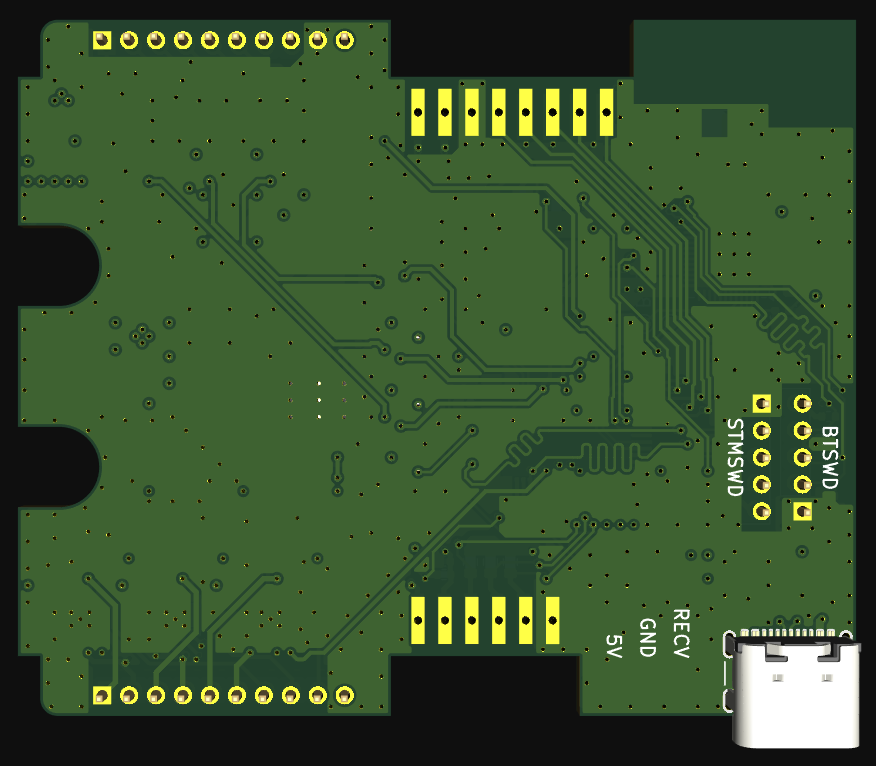
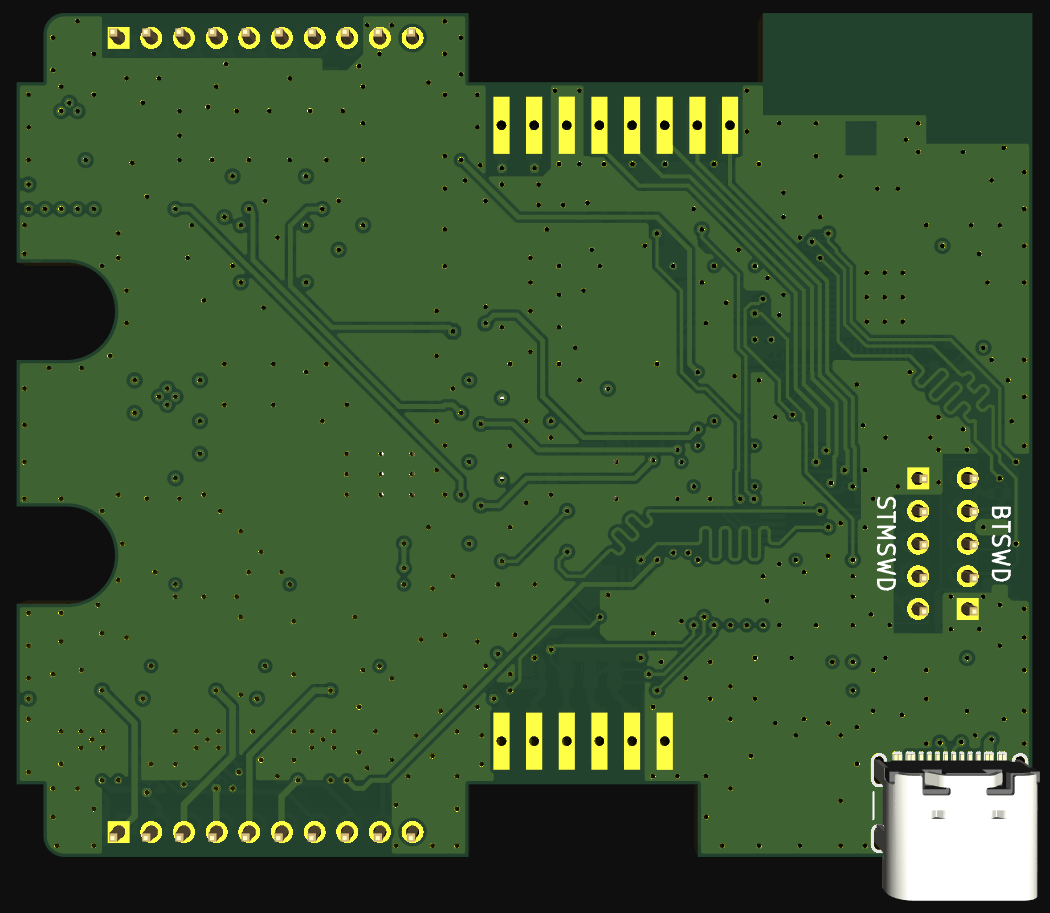
Added motor controller pictures and updated motor controller page

diff --git a/index.html b/index.html
@@ -54,7 +54,7 @@
 
     <div class="card-container">
         <a href="projects/vesc.html" class="project-card">
-            <img src="docs/assets/Gameboy Color Cartridge 3D Corner.png" alt="VESC Project Thumbnail">
+            <img src="docs/assets/VESC 3D Corner.png" alt="VESC Project Thumbnail">
             <div class="project-title">Custom VESC Project</div>
             <div align="left" style="margin-left:30px; margin-right:30px">
                 <p>
@@ -64,7 +64,7 @@
             </div>
             <div>
                 <p style="color:green">
-                    <svg id="active" height="16" viewBox="0 0 16 16" width="16" class="octicon octicon-check-circle-fill">
+                    <svg id="active" height="16" viewBox="0 0 16 16" width="16" class="checkmark checkmark-check-circle-fill">
                         <path d="M8 16A8 8 0 1 1 8 0a8 8 0 0 1 0 16Zm3.78-9.72a.751.751 0 0 0-.018-1.042.751.751 0 0 0-1.042-.018L6.75 9.19 5.28 7.72a.751.751 0 0 0-1.042.018.751.751 0 0 0-.018 1.042l2 2a.75.75 0 0 0 1.06 0Z"></path>
                     </svg>
                     Active
@@ -73,7 +73,7 @@
         </a>
 
         <a href="projects/motor_controller.html" class="project-card">
-            <img src="docs/assets/Gameboy Color Cartridge 2D Back Layout.png" alt="Motor Controller Thumbnail">
+            <img src="docs/assets/Motor Controller 3D Corner.png" alt="Motor Controller Thumbnail">
             <div class="project-title">Motor Controller Project</div>
             <div align="left" style="margin-left:30px; margin-right:30px">
                 <p>
@@ -83,7 +83,7 @@
             </div>
             <div>
                 <p style="color:green">
-                    <svg id="active" class="octicon octicon-check-circle-fill" height="16" viewBox="0 0 16 16" width="16">
+                    <svg id="active" class="checkmark checkmark-check-circle-fill" height="16" viewBox="0 0 16 16" width="16">
                         <path d="M8 16A8 8 0 1 1 8 0a8 8 0 0 1 0 16Zm3.78-9.72a.751.751 0 0 0-.018-1.042.751.751 0 0 0-1.042-.018L6.75 9.19 5.28 7.72a.751.751 0 0 0-1.042.018.751.751 0 0 0-.018 1.042l2 2a.75.75 0 0 0 1.06 0Z"></path>
                     </svg>
                     Active
@@ -102,7 +102,7 @@
             </div>
             <div>
                 <p style="color:#545454">
-                    <svg id="finished" class="octicon octicon-check-circle" height="16" viewBox="0 0 16 16" width="16" fill="currentColor" display="inline-block">
+                    <svg id="finished" class="checkmark checkmark-check-circle" height="16" viewBox="0 0 16 16" width="16" fill="currentColor" display="inline-block">
                         <path d="M0 8a8 8 0 1 1 16 0A8 8 0 0 1 0 8Zm1.5 0a6.5 6.5 0 1 0 13 0 6.5 6.5 0 0 0-13 0Zm10.28-1.72-4.5 4.5a.75.75 0 0 1-1.06 0l-2-2a.751.751 0 0 1 .018-1.042.751.751 0 0 1 1.042-.018l1.47 1.47 3.97-3.97a.751.751 0 0 1 1.042.018.751.751 0 0 1 .018 1.042Z"></path>
                     </svg>
                     Finished
@@ -124,7 +124,7 @@
             </div>
             <div>
                 <p style="color:#545454">
-                    <svg id="finished" class="octicon octicon-check-circle" height="16" viewBox="0 0 16 16" width="16" fill="currentColor" display="inline-block">
+                    <svg id="finished" class="checkmark checkmark-check-circle" height="16" viewBox="0 0 16 16" width="16" fill="currentColor" display="inline-block">
                         <path d="M0 8a8 8 0 1 1 16 0A8 8 0 0 1 0 8Zm1.5 0a6.5 6.5 0 1 0 13 0 6.5 6.5 0 0 0-13 0Zm10.28-1.72-4.5 4.5a.75.75 0 0 1-1.06 0l-2-2a.751.751 0 0 1 .018-1.042.751.751 0 0 1 1.042-.018l1.47 1.47 3.97-3.97a.751.751 0 0 1 1.042.018.751.751 0 0 1 .018 1.042Z"></path>
                     </svg>
                     Finished
@@ -142,7 +142,7 @@
             </div>
             <div>
                 <p style="color:#545454">
-                    <svg id="finished" class="octicon octicon-check-circle" height="16" viewBox="0 0 16 16" width="16" fill="currentColor" display="inline-block">
+                    <svg id="finished" class="checkmark checkmark-check-circle" height="16" viewBox="0 0 16 16" width="16" fill="currentColor" display="inline-block">
                         <path d="M0 8a8 8 0 1 1 16 0A8 8 0 0 1 0 8Zm1.5 0a6.5 6.5 0 1 0 13 0 6.5 6.5 0 0 0-13 0Zm10.28-1.72-4.5 4.5a.75.75 0 0 1-1.06 0l-2-2a.751.751 0 0 1 .018-1.042.751.751 0 0 1 1.042-.018l1.47 1.47 3.97-3.97a.751.751 0 0 1 1.042.018.751.751 0 0 1 .018 1.042Z"></path>
                     </svg>
                     Finished
@@ -160,7 +160,7 @@
             </div>
             <div>
                 <p style="color:green">
-                    <svg id="active" height="16" viewBox="0 0 16 16" width="16" class="octicon octicon-check-circle-fill">
+                    <svg id="active" height="16" viewBox="0 0 16 16" width="16" class="checkmark checkmark-check-circle-fill">
                         <path d="M8 16A8 8 0 1 1 8 0a8 8 0 0 1 0 16Zm3.78-9.72a.751.751 0 0 0-.018-1.042.751.751 0 0 0-1.042-.018L6.75 9.19 5.28 7.72a.751.751 0 0 0-1.042.018.751.751 0 0 0-.018 1.042l2 2a.75.75 0 0 0 1.06 0Z"></path>
                     </svg>
                     Active

diff --git a/projects/motor_controller.html b/projects/motor_controller.html
@@ -31,19 +31,28 @@
             <div class="splide__track">
                 <ul class="splide__list">
                     <li class="splide__slide">
-                        <img src="https://elijahhaga.github.io/docs/assets/LED Ring Corner 3D.png" height="338" width="473" alt="LED Ring 3D Corner" align="middle"/>
+                        <img src="https://elijahhaga.github.io/docs/assets/Motor Controller 3D Corner.png" height="338" width="473" alt="LED Ring 3D Corner" align="middle"/>
                     </li>
                     <li class="splide__slide">
-                        <img src="https://elijahhaga.github.io/docs/assets/LED Ring Front 3D.png" height="461" width="461" alt="LED Ring Front 3D Layout" align="middle"/>
+                        <img src="https://elijahhaga.github.io/docs/assets/Motor Controller 3D Front.png" height="461" width="461" alt="LED Ring Front 3D Layout" align="middle"/>
                     </li>
                     <li class="splide__slide">
-                        <img src="https://elijahhaga.github.io/docs/assets/LED Ring Back 3D.png" height="458" width="458" alt="LED Ring Back 3D Layout" align="middle"/>
+                        <img src="https://elijahhaga.github.io/docs/assets/Motor Controller 3D Back.png" height="458" width="458" alt="LED Ring Back 3D Layout" align="middle"/>
                     </li>
                     <li class="splide__slide">
-                        <img src="https://elijahhaga.github.io/docs/assets/LED Ring Front 2D.png" height="443" width="450" alt="LED Ring Front 2D Layout" align="middle"/>
+                        <img src="https://elijahhaga.github.io/docs/assets/Motor Controller 2D Layout Front.png" height="443" width="450" alt="LED Ring Front 2D Layout" align="middle"/>
                     </li>
                     <li class="splide__slide">
-                        <img src="https://elijahhaga.github.io/docs/assets/LED Ring PCB Schematic.png" height="609" width="699" alt="LED Ring Schematic" align="middle"/>
+                        <img src="https://elijahhaga.github.io/docs/assets/Motor Controller 2D Layout Back.png" height="609" width="699" alt="LED Ring Schematic" align="middle"/>
+                    </li>
+                    <li class="splide__slide">
+                        <img src="https://elijahhaga.github.io/docs/assets/Motor Controller Hierarchical Schematic.png" height="609" width="699" alt="LED Ring Schematic" align="middle"/>
+                    </li>
+                    <li class="splide__slide">
+                        <img src="https://elijahhaga.github.io/docs/assets/Motor Controller STM32 Schematic.png" height="609" width="699" alt="LED Ring Schematic" align="middle"/>
+                    </li>
+                    <li class="splide__slide">
+                        <img src="https://elijahhaga.github.io/docs/assets/Motor Controller DRV8323 Schematic.png" height="609" width="699" alt="LED Ring Schematic" align="middle"/>
                     </li>
                 </ul>
             </div>
@@ -57,9 +66,9 @@
                 designing the electronics system for the autonomous robot shuttles the company needed, and one of circuit boards 
                 I designed for this project was a motor controller board. It can handle 30 Amps at 60 Volts, and is capable of using 
                 either the built-in magnetic rotary encoder or an external encoder that uses SPI or I2C. It can communicate over CAN 
-                using CAN-FD. I designed the board to be able to use some pre-made open-source firmware, but I had to make some major 
-                changes to the firmware to allow for faster CAN communication and to enable the built-in rotary encoder to work. This 
-                gave me a lot of experience of programming firmware in C and flashing my built files to the STM32.
+                using CAN-FD to recieve commands for the motor. I designed the board to be able to use some open-source firmware, but the company 
+                I was interning for wanted the entire project to be built in-house to make sure we wouldn't have to open source company IP, 
+                so I wrote the firmware for this board myself in C. This gave me a lot of experience programming firmware in C and flashing my built files to the STM32.
             </font>
         </p>
     </div>

diff --git a/docs/assets/css/style.css b/docs/assets/css/style.css
@@ -120,17 +120,17 @@ body {
     max-width: 1400px;           /* Optional: limit container width */
 }
 
-.octicon {
+.checkmark {
   display: inline-block;
   overflow: visible !important;
   vertical-align: text-bottom;
   fill: currentColor;
 }
 
-.octicon-check-circle-full {
+.checkmark-check-circle-full {
     color:green;
 }
 
-.octicon-check-circle {
+.checkmark-check-circle {
     color: #545454;
 }
